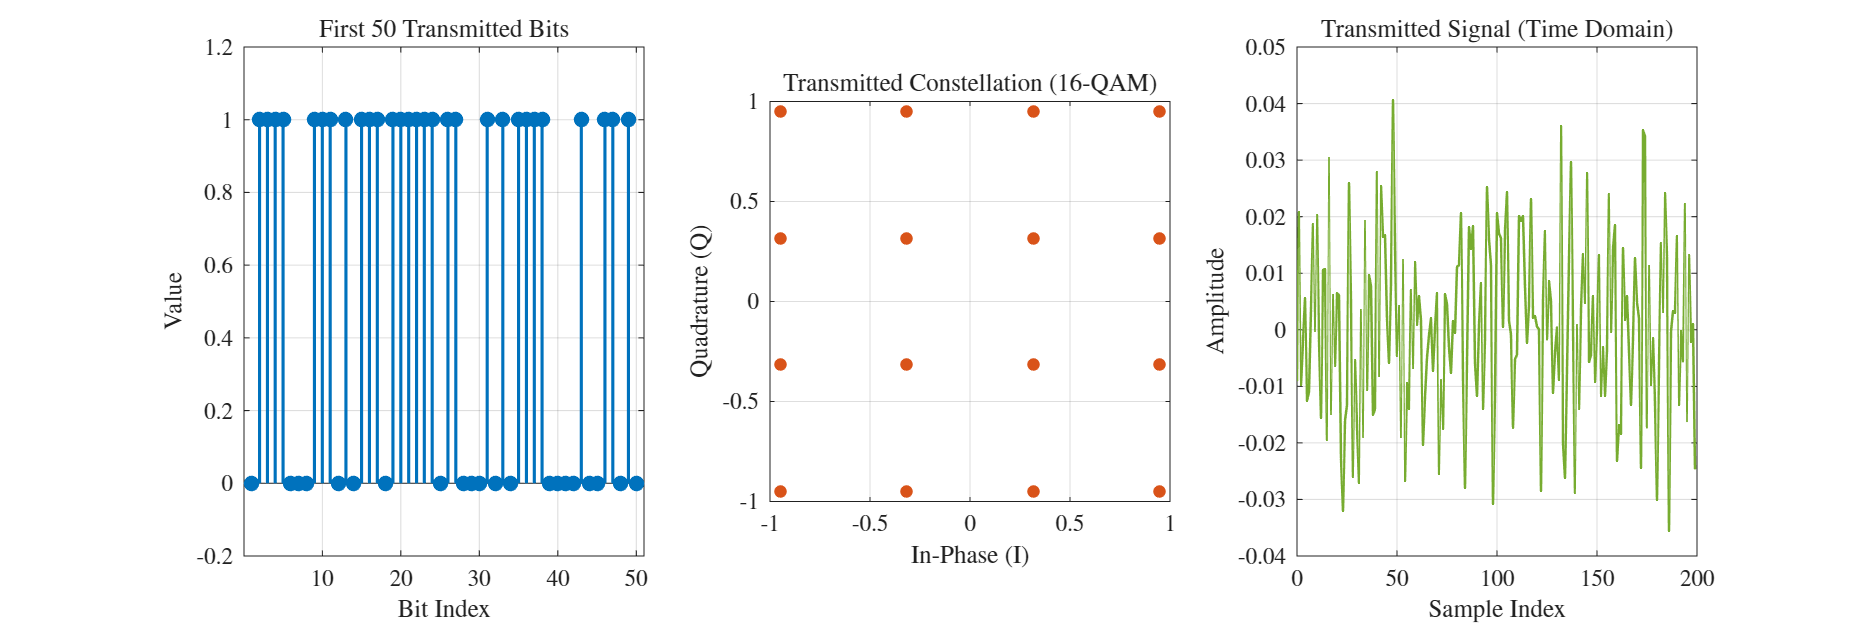
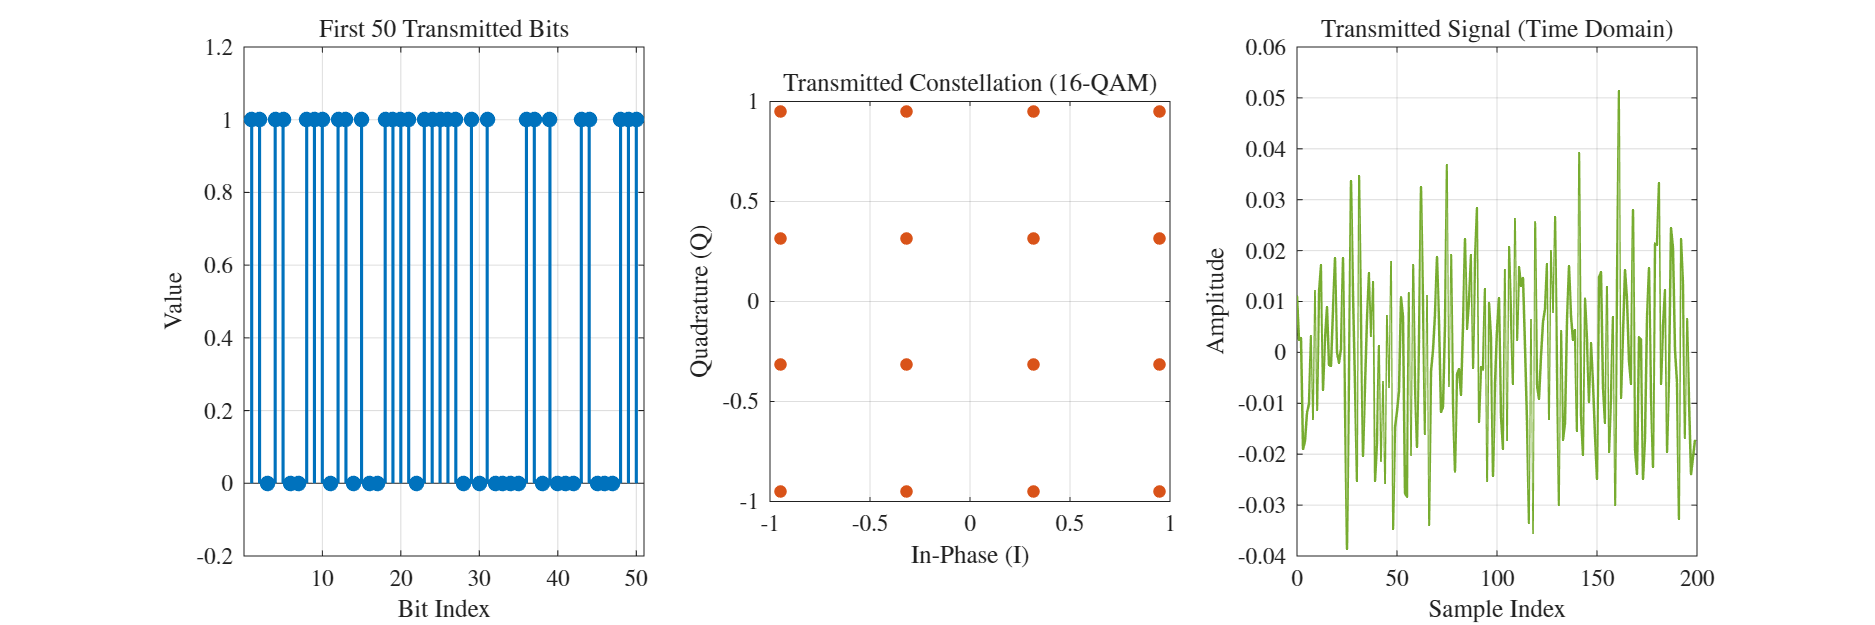
Step 1 - Equalization Complete

diff --git a/Code/main.m b/Code/main.m
@@ -38,7 +38,7 @@ tx_cp = [tx_time_full(end-L_cp+1:end, :); tx_time_full];
 tx_signal = tx_cp(:);                                   % (P/S Conversion)
 
 %% 1.2.3 - Receiver Chain (ideal)
-rx_signal = tx_signal;                                  % Assume ideal channel (rx_signal = tx_signal)  
+rx_signal = tx_signal;                                  % Assume ideal channel (rx_signal = tx_signal)
 
 % S/P Conversion (Reshape)
 rx_matrix_cp = reshape(rx_signal, N_sub + L_cp, L_preamble + L_data);
@@ -100,7 +100,8 @@ for i = 1:length(SNR_dB)
 end
 
 %% Receiver Chain (Multipath Channel)
-h = [1, 0.5, 0.2]; % Static multipath channel (represented by a filter kernel)
+h = rand(1, 3); % Random multipath channel
+
 rx_signal_multipath = filter(h, 1, tx_signal); % Apply channel
 
 % S/P Conversion (Reshape)
@@ -120,6 +121,21 @@ rx_syms_multipath = rx_syms_matrix_multipath(:);
 
 %%  Theoretical BER
 ber_theo = berawgn(SNR_dB, 'qam', M);
+
+
+%% Frequency Domain Channel Equalization with Zero Forcing
+% Transform the time domain h into frequency domain
+H_fft = fft(h, N_sub);
+
+% Expand the channel to match data dimension
+H_matrix = repmat(H_fft.', 1, L_data);
+
+% Apply Zero Forcing Equalization
+rx_syms_matrix_equalized = rx_syms_matrix_multipath ./ H_matrix;
+
+% P/S Conversion (Serialize)
+rx_syms_equalized = rx_syms_matrix_equalized(:);
+
 
 %%  Plots
 %   First 50 bits
@@ -189,10 +205,23 @@ grid on; set(gca, 'TickLabelInterpreter', 'latex', 'FontSize', 11);
 saveas(gcf, 'Receiver_Viz.png');
 
 %   Multipath Visualization
-figure('Name', 'Multipath Visualization', 'Color', 'w', 'Position', [100, 100, 600, 600]);
+figure('Name', 'Multipath Visualization', 'Color', 'w', 'Position', [100, 100, 1000, 500]);
+
+%   Before Equalization
+subplot(1,2,1);
 plot(real(rx_syms_multipath), imag(rx_syms_multipath), 'o', 'MarkerSize', 4, ...
     'MarkerFaceColor', '#7E2F8E', 'MarkerEdgeColor', 'none');
-title('Multipath Channel Constellation (No Equalization)', 'Interpreter', 'latex', 'FontSize', 14);
+title('Before Equalization', 'Interpreter', 'latex', 'FontSize', 14);
+xlabel('In-Phase (I)', 'Interpreter', 'latex', 'FontSize', 12);
+ylabel('Quadrature (Q)', 'Interpreter', 'latex', 'FontSize', 12);
+grid on; axis square;
+set(gca, 'TickLabelInterpreter', 'latex', 'FontSize', 11);
+
+%   After Equalization
+subplot(1,2,2);
+plot(real(rx_syms_equalized), imag(rx_syms_equalized), 'o', 'MarkerSize', 4, ...
+    'MarkerFaceColor', '#77AC30', 'MarkerEdgeColor', 'none');
+title('After Zero-Forcing Equalization', 'Interpreter', 'latex', 'FontSize', 14);
 xlabel('In-Phase (I)', 'Interpreter', 'latex', 'FontSize', 12);
 ylabel('Quadrature (Q)', 'Interpreter', 'latex', 'FontSize', 12);
 grid on; axis square;

diff --git a/Equalizers Analysis.md b/Equalizers Analysis.md
@@ -1,0 +1,181 @@
+
+---
+
+### **1. Maximum Likelihood Sequence Estimator (MLSE)**
+
+This is the optimal receiver for channels with Inter-Symbol Interference (ISI). Instead of making decisions one symbol at a time, it looks at the entire received sequence to find the most probable transmitted path.
+
+#### **Mathematical Formulation**
+The estimator searches for the sequence $\{I_n\}$ that minimizes the Euclidean distance between the actual received signal and the reconstructed signal:
+
+$$\hat{I}_n = \arg \min_{I_n} \int_{-\infty}^{\infty} \left| r(t) - \sum_{n} I_n h(t-nT) \right|^2 dt$$
+
+
+**Symbol Definitions:**
+* **$\hat{I}_n$**: The estimated sequence of transmitted symbols (the final output).
+* **$\arg \min_{I_n}$**: The operator that finds the specific sequence $I_n$ that minimizes the expression.
+* **$I_n$**: A candidate sequence of transmitted symbols (a hypothesis being tested).
+* **$\int_{-\infty}^{\infty} ... dt$**: Integral over continuous time $t$, representing the total energy of the error.
+* **$|\cdot|^2$**: The squared magnitude of the complex value inside.
+* **$r(t)$**: The actual continuous-time signal received from the channel.
+* **$\sum_{n}$**: Summation over all symbol indices $n$.
+* **$h(t)$**: The composite channel impulse response (combining the transmitter filter, physical multipath channel, and receiver filter).
+* **$t$**: Continuous time variable.
+* **$T$**: The symbol period (time duration of one symbol).
+
+#### **Implementation**
+* **Viterbi Algorithm:** Because the complexity of testing every possible sequence is too high, the Viterbi algorithm is used to efficiently find the optimal path through a trellis diagram. The states of the trellis are defined by the channel memory length $L$.
+
+#### **Trade-offs**
+* **Advantages:** It is the **optimal** receiver; it minimizes the probability of sequence error.
+* **Disadvantages:** **High Complexity**. The computational cost grows exponentially with the channel memory $L$ (complexity $\propto M^L$, where $M$ is the constellation size). It is impractical for long channels.
+
+---
+
+### **2. Linear Equalizers (Time Domain / Burst Model)**
+
+To reduce complexity, these equalizers use linear filters. They rely on a discrete-time **matrix model** of the transmission burst.
+
+**The System Matrix Model:**
+$$\underline{r} = \underline{\underline{H}} \cdot \underline{I} + \underline{z}$$
+
+
+**Symbol Definitions:**
+* **$\underline{r}$**: The received signal vector (containing samples $r_0, r_1, ...$).
+* **$\underline{\underline{H}}$**: The channel convolution matrix (Toeplitz structure representing the multipath delay).
+* **$\cdot$**: Matrix multiplication operator.
+* **$\underline{I}$**: The vector of transmitted symbols ($I_0, I_1, ...$).
+* **$\underline{z}$**: The noise vector (Gaussian noise samples).
+
+---
+
+#### **A. Matched Filter (MF)**
+
+The Matched Filter maximizes the Signal-to-Noise Ratio (SNR) at the sampling instant but ignores interference.
+
+**Equation:**
+$$\underline{\hat{I}}_{MF} = \underline{\underline{H}}^H \cdot \underline{r}$$
+
+
+**Symbol Definitions:**
+* **$\underline{\hat{I}}_{MF}$**: The estimated symbol vector output by the Matched Filter.
+* **$\underline{\underline{H}}^H$**: The Hermitian transpose (conjugate transpose) of the channel matrix $\underline{\underline{H}}$.
+* **$\underline{r}$**: The received signal vector.
+
+**Trade-offs:**
+* **Advantages:** Maximizes SNR in the presence of noise.
+* **Disadvantages:** Does not remove Inter-Symbol Interference (ISI). Performance is poor in multipath environments.
+
+---
+
+#### **B. Zero-Forcing (ZF) Equalizer**
+
+The ZF equalizer completely inverts the channel matrix to force the ISI to zero.
+
+**Filter Equation:**
+$$\underline{\underline{F}}_{ZF} = (\underline{\underline{H}}^H \cdot \underline{\underline{H}})^{-1} \cdot \underline{\underline{H}}^H$$
+
+
+**Estimation Equation:**
+$$\underline{\hat{I}}_{ZF} = \underline{\underline{F}}_{ZF} \cdot \underline{r} = \underline{I} + (\underline{\underline{H}}^H \cdot \underline{\underline{H}})^{-1} \underline{\underline{H}}^H \underline{z}$$
+
+
+**Symbol Definitions:**
+* **$\underline{\underline{F}}_{ZF}$**: The Zero-Forcing equalizer matrix.
+* **$(\cdot)^{-1}$**: Matrix inversion.
+* **$\underline{\underline{H}}$**: The channel matrix.
+* **$\underline{\underline{H}}^H$**: The Hermitian transpose of the channel matrix.
+* **$\underline{\hat{I}}_{ZF}$**: The estimated symbol vector.
+* **$\underline{I}$**: The original transmitted symbols (perfectly recovered).
+* **$\underline{z}$**: The noise vector.
+
+**Trade-offs:**
+* **Advantages:** Completely eliminates ISI ($\underline{\hat{I}}$ is unbiased).
+* **Disadvantages:** **Noise Enhancement**. If the channel has deep fades (small eigenvalues), the inverse matrix contains very large numbers, which amplifies the noise term ($\underline{z}$) significantly.
+
+---
+
+#### **C. Minimum Mean Square Error (MMSE) Equalizer**
+
+The MMSE equalizer balances the removal of ISI with the suppression of noise. It minimizes the total error variance.
+
+**Equation:**
+$$\underline{\underline{F}}_{MMSE} = \left( \frac{2N_0}{\sigma_I^2}\underline{\underline{I}}_N + \underline{\underline{H}}^H \cdot \underline{\underline{H}} \right)^{-1} \cdot \underline{\underline{H}}^H$$
+
+
+**Symbol Definitions:**
+* **$\underline{\underline{F}}_{MMSE}$**: The MMSE equalizer matrix.
+* **$2N_0$**: The variance (power) of the noise samples.
+* **$\sigma_I^2$**: The variance (average power) of the transmitted symbols.
+* **$\underline{\underline{I}}_N$**: The identity matrix of size $N \times N$.
+* **$\underline{\underline{H}}$**: The channel matrix.
+* **$\underline{\underline{H}}^H$**: The Hermitian transpose of the channel matrix.
+* **$(\cdot)^{-1}$**: Matrix inversion.
+
+**Trade-offs:**
+* **Advantages:** Generally outperforms ZF because it prevents noise enhancement. At high SNR, it behaves like ZF; at low SNR, it behaves like a Matched Filter.
+* **Disadvantages:** Does not perfectly remove ISI (leaves some residual interference).
+
+---
+
+### **3. Decision-Feedback Equalizer (DFE)**
+
+The DFE is a non-linear equalizer. It uses a linear filter for the current symbol and subtracts the interference from **previously detected** symbols.
+
+**Equation:**
+$$\underline{\hat{I}}^{DFE} = \underline{\hat{I}}' - (\underline{\underline{L}}^{-1} - \underline{\underline{I}}_N) \cdot \tilde{\underline{I}}$$
+
+
+**Symbol Definitions:**
+* **$\underline{\hat{I}}^{DFE}$**: The final estimated symbol vector from the DFE.
+* **$\underline{\hat{I}}'$**: An intermediate linear estimate (typically from an MMSE filter before feedback).
+* **$\underline{\underline{L}}^{-1}$**: The inverse of the lower triangular matrix $\underline{\underline{L}}$ (derived from the Cholesky decomposition of the error matrix).
+* **$\underline{\underline{I}}_N$**: The identity matrix of size $N \times N$.
+* **$\tilde{\underline{I}}$**: The vector of **previously detected** symbols (hard decisions, e.g., rounded to the nearest QAM point).
+
+**Trade-offs:**
+* **Advantages:** Outperforms linear equalizers by canceling known interference without amplifying noise.
+* **Disadvantages:** **Error Propagation**. If the previous decision $\tilde{\underline{I}}$ is incorrect, the feedback loop adds more error instead of fixing it, corrupting future symbols.
+
+---
+
+### **4. OFDM Equalizers (Frequency Domain)**
+
+In OFDM, the Cyclic Prefix (CP) and FFT transform the channel matrix into a **diagonal** matrix. This decouples the system into independent subcarriers, allowing for simple "One-Tap" equalization.
+
+**Model per subcarrier $q$:**
+$$r_q^F = h_q^F \cdot I_q^F + z_q^F$$
+
+
+#### **A. One-Tap Zero-Forcing (ZF)**
+
+**Equation:**
+$$\hat{I}_q^F = \frac{r_q^F}{h_q^F}$$
+
+
+**Symbol Definitions:**
+* **$\hat{I}_q^F$**: The estimated symbol on subcarrier $q$ (Frequency Domain).
+* **$r_q^F$**: The received signal on subcarrier $q$ (after FFT).
+* **$h_q^F$**: The channel frequency response (complex coefficient) at subcarrier $q$.
+
+**Trade-offs:**
+* **Advantages:** Extremely simple implementation (one division). Perfectly removes channel distortion.
+* **Disadvantages:** Massive noise amplification if $|h_q^F| \approx 0$ (deep fade).
+
+#### **B. One-Tap MMSE**
+
+**Equation:**
+$$\hat{I}_q^F = \frac{(h_q^F)^*}{|h_q^F|^2 + \frac{2N_0}{\sigma_I^2}} \cdot r_q^F$$
+
+
+**Symbol Definitions:**
+* **$\hat{I}_q^F$**: The estimated symbol on subcarrier $q$.
+* **$(h_q^F)^*$**: The complex conjugate of the channel coefficient at subcarrier $q$.
+* **$r_q^F$**: The received signal on subcarrier $q$.
+* **$|h_q^F|^2$**: The squared magnitude (power) of the channel gain at subcarrier $q$.
+* **$2N_0$**: The noise variance (power).
+* **$\sigma_I^2$**: The signal variance (transmitted power).
+
+**Trade-offs:**
+* **Advantages:** Solves the noise enhancement problem of ZF by adding a regularization term ($\frac{2N_0}{\sigma_I^2}$) in the denominator.
+* **Disadvantages:** Requires knowledge of the SNR ($2N_0$ and $\sigma_I^2$) to compute accurately.
